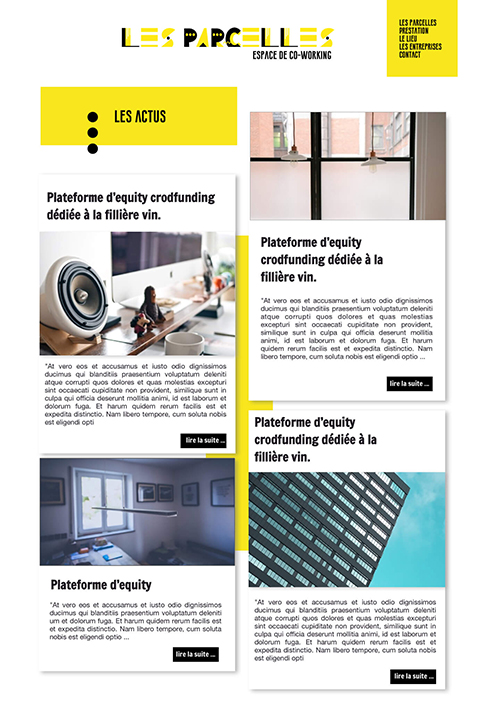
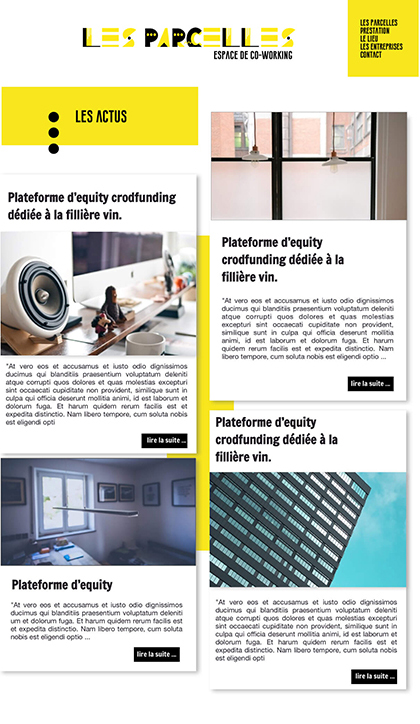
Page parcelles finie

diff --git a/styles/styles-page-parcelles.css b/styles/styles-page-parcelles.css
@@ -80,26 +80,42 @@ section p {
     /*margin:auto;*/
 }
 
-section p span {
+section p a {
     font-style: italic;
     font-weight: 400;
 }
 
+p{
+    font-family: 'Lato', sans-serif;
+    padding: 2em 0;
+    margin-left: 23.5%;
+    font-size: 1.2em;
+    font-weight: 100;
+    color: black;
+}
+
 .centre {
-    margin-left: 8%;
     display: flex;
-    flex-direction: column;
     justify-content: center;
     align-items: center;
     max-width: 20%;
     margin: auto;
-    padding:5em;
+
 }
 
-img[src="../images/parcelles/pres-parcelles.jpg], img[src="../images/parcelles/les-actus.jpg"],
-img[src="../images/parcelles/winefunding.jpg"] 
- {
-    
+.centre img{
+        padding-bottom:3em;
+}
+
+.wrap{
+    margin-left: 22%;
+    padding-bottom:3em;
+
+}
+
+img[src="../images/parcelles/winefunding.jpg"]{
+    width:40%;
+    padding-left: 2em;
 }
 
 
@@ -107,6 +123,7 @@ img[src="../images/parcelles/winefunding.jpg"]
 /*******                  FOOTER                       **********/
 
 .footer {
+/*    background-color: #e2d7d1;*/
     background-color: #434343;
     height: 100px;
     min-width: 100%;
@@ -130,7 +147,7 @@ img[src="../images/fb.svg"] {
 }
 
 .footer #remonter {
-    color: white;
+    color: #ffffff;
     font-family: 'Lato', sans-serif;
     font-size: 1em;
     font-weight: 100;

diff --git a/les-parcelles.html b/les-parcelles.html
@@ -22,13 +22,18 @@
         <div class="diagonale"> <img src="../images/parcelles/les-parcelles.jpg"> </div>
     </div>
     <section>
-        <p>Création de la maquette du site <span>Lesparcelles.co</span>, actuellement en ligne.
-            <br> certaines pages non utilisées</p>
+        <p>Création de la maquette du site <a href="http://lesparcelles.co/">Lesparcelles.co</a>, actuellement en ligne.
     </section>
-    <div class=centre> <img src="../images/parcelles/pres-parcelles.jpg">
-        <div class="colonne"> <img src="../images/parcelles/les-actus.jpg"> <img src="../images/parcelles/winefunding.jpg"></div>
+    <div class="centre"> <img src="../images/parcelles/pres-parcelles.jpg"></div>
+        <p>Maquettes de pages supplémentaires, non mises en ligne</p>
+
+    <div class="wrap"> 
+        <img src="../images/parcelles/les-actus.jpg"> <img src="../images/parcelles/winefunding.jpg">
     </div>
-    <div class="footer"> <a id="remonter" href="#haut">Remonter</a>
+
+    
+    <div class="footer"> 
+        <a id="remonter" href="#haut">Remonter</a>
         <a id="facebook" href="https://www.facebook.com/ChloeImagine/"> <img src="../images/fb.svg"></a>
     </div>
     <script type="text/javascript" src="js/smoothscroll.js"></script>

diff --git a/encre-des-coteaux.html b/encre-des-coteaux.html
@@ -22,7 +22,7 @@
         <div class="diagonale"> <img src="../images/encre-des-coteaux2.jpg"> </div>
     </div>
     <section>
-        <p>Affiche du concours d’écriture de la Rive droite bordelaise pour le mensuel l’Echo des Collines.
+<p>Affiche du concours d’écriture de la Rive droite bordelaise pour le mensuel l’Echo des Collines.
             <br><span> Photographie et photomontage sur Photoshop&nbsp;</span></p>
     </section>
     <div class=centre>
